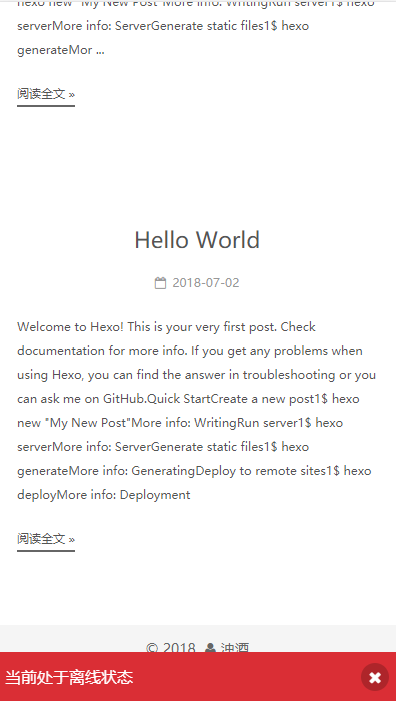
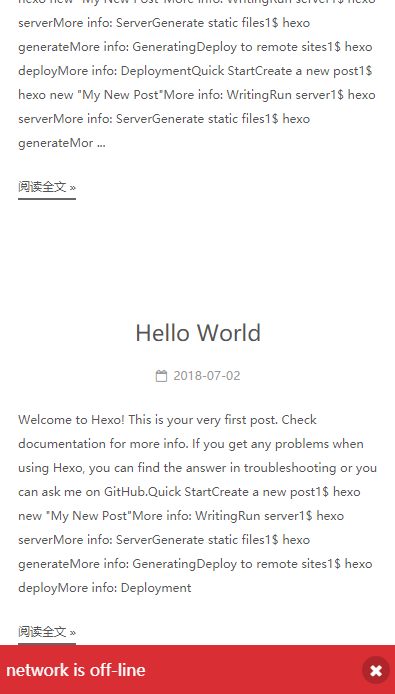
修改版本和demo

diff --git a/index.js b/index.js
@@ -28,7 +28,7 @@ if (hexo.config.offline_tips && hexo.config.offline_tips.enable) {
       return source
     }
     const opt = Object.assign({
-      toastText: '当前处于离线状态',
+      toastText: 'network is off-line',
       toastStyle: 'display:none;position:fixed;left:0;right:0;bottom:0;flex-direction:row;justify-content:space-between;align-items:center;background-color:#dc322f;color:#fff;font-size:16px;height:50px;line-height:50px;padding:0 8px;'
     }, hexo.config.offline_tips.options)
     const inject = hexo.render.renderSync({ text: injectTemplete, engine: 'swig' }, opt)

diff --git a/readme.md b/readme.md
@@ -1,1 +1,23 @@
-### 显示 hexo 离线状态  
+## show hexo offline tips (in pwa mode)  
+
+### install
+```
+npm install hexo-offline-tip
+```
+or with yarn
+```
+yarn add hexo-offline-tip
+```
+
+### config
+```
+offline_tips:
+  enable: true 
+  options:                                        # optional
+    toastText: 'your network is offline',         # optional tip text
+    toastStyle:                                   # optional style eg. 'color: red'
+```
+
+
+![demo image](https://raw.githubusercontent.com/xujif/hexo-offline-tip/master/demo/offline.png)
+
